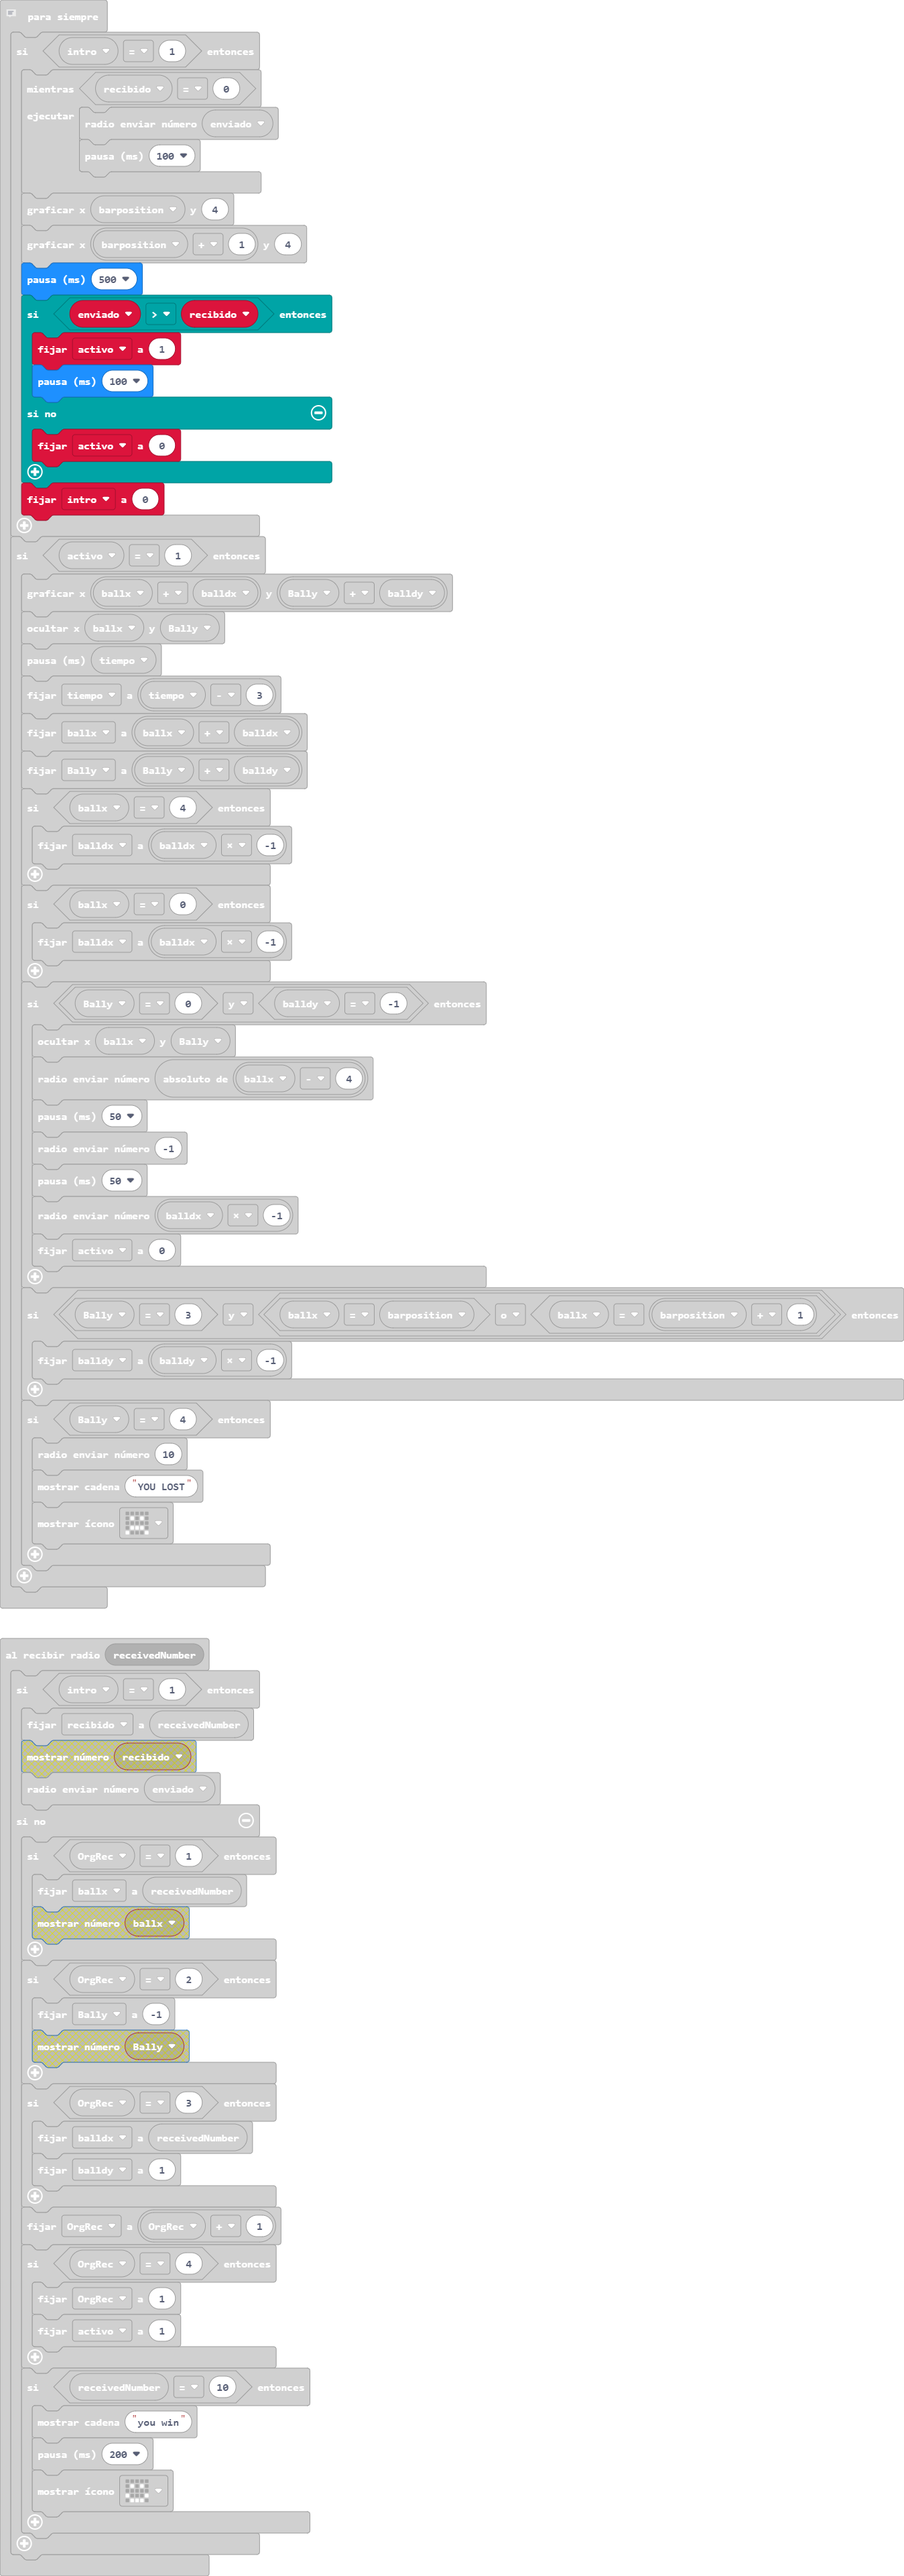
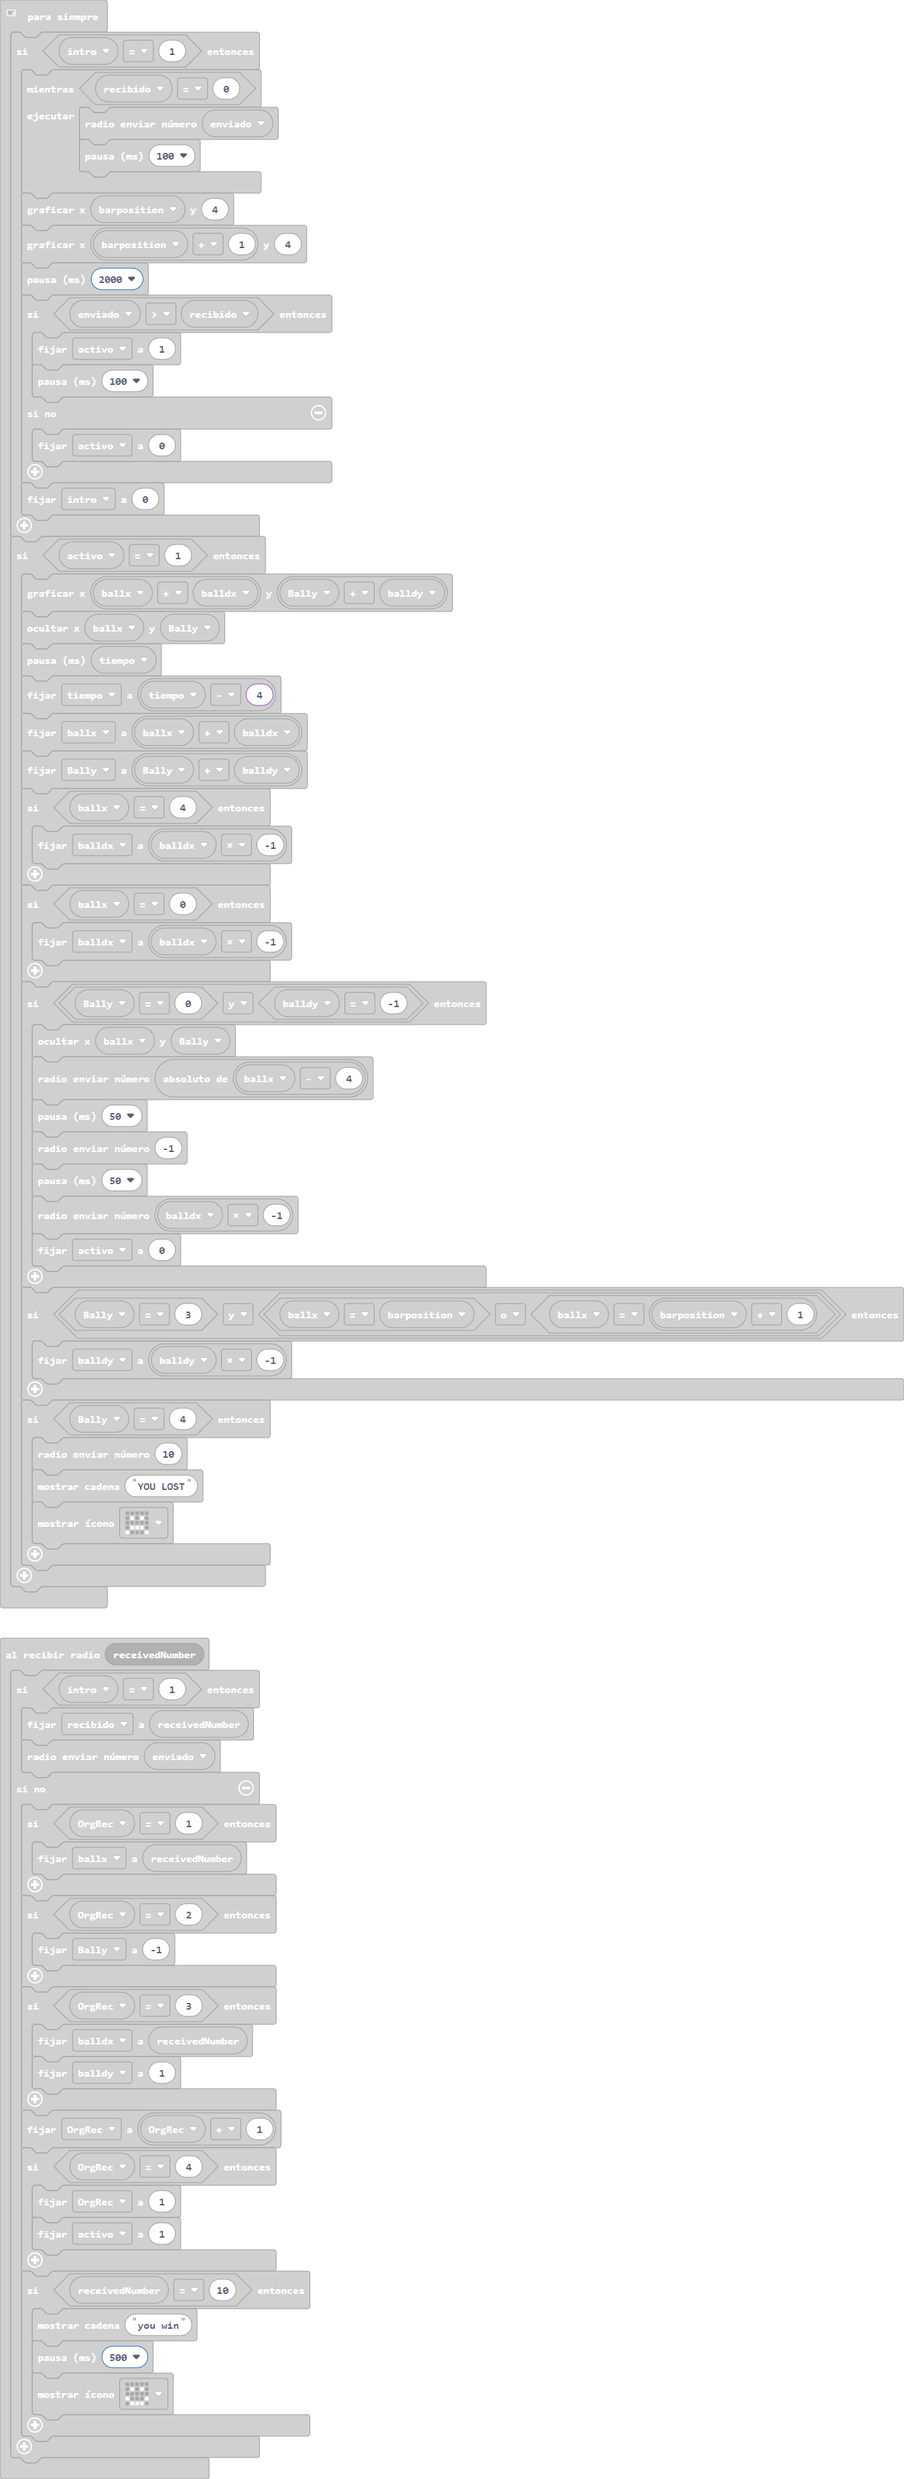
99,8% DEFINITIVO

Changed region(s): [[0.0, 0.0, 1.0, 0.9954]]

diff --git a/main.ts b/main.ts
@@ -23,7 +23,7 @@ radio.onReceivedNumber(function (receivedNumber) {
         }
         if (receivedNumber == 10) {
             basic.showString("you win")
-            basic.pause(200)
+            basic.pause(500)
             basic.showIcon(IconNames.Happy)
         }
     }
@@ -76,7 +76,7 @@ basic.forever(function () {
         }
         led.plot(barposition, 4)
         led.plot(barposition + 1, 4)
-        basic.pause(500)
+        basic.pause(2000)
         if (enviado > recibido) {
             activo = 1
             basic.pause(100)
@@ -89,7 +89,7 @@ basic.forever(function () {
         led.plot(ballx + balldx, Bally + balldy)
         led.unplot(ballx, Bally)
         basic.pause(tiempo)
-        tiempo = tiempo - 3
+        tiempo = tiempo - 4
         ballx = ballx + balldx
         Bally = Bally + balldy
         if (ballx == 4) {
